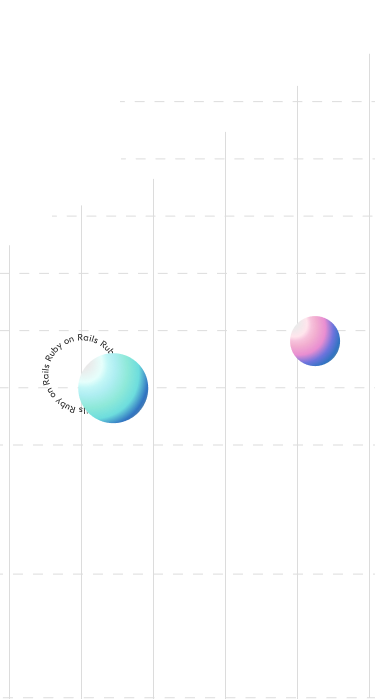
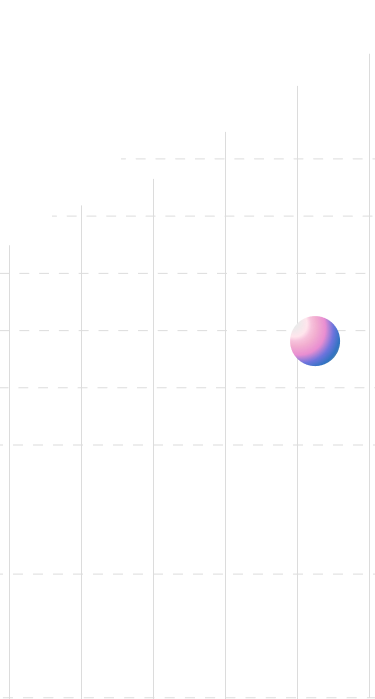
feat: add animations circleRubyOnRails  in the sections cases testimonails lazy_bison for  screen 375px

Changed region(s): [[0.1173, 0.4807, 0.4107, 0.6309]]

diff --git a/styles/scss/sections/_section-testimonials.scss b/styles/scss/sections/_section-testimonials.scss
@@ -348,104 +348,112 @@
 		margin-right: 71px;
 	}
 
-	.consultation__planet-img {
-		position: absolute;
-		width: 107.57px;
-		height: 107.55px;
-		z-index: -1;
-		top: -23px;
-		left: -32px;
-	}
-}
+	@media (max-width: 375px) {
+		.workers-background {
+			background-image: none;
+			background-color: $color-light-green;
+			position: relative;
+			height: 177px;
+		}
 
-@media (max-width: 375px) {
-	.workers-background {
-		background-image: none;
-		background-color: $color-light-green;
-		position: relative;
-		height: 177px;
-	}
+		.workers__list {
+			width: 272px;
+			height: 276px;
+			position: relative;
+			top: -24px;
+			gap: 0;
+		}
 
-	.workers__list {
-		width: 272px;
-		height: 276px;
-		position: relative;
-		top: -24px;
-		gap: 0;
-	}
+		.testimonials__gray-line {
+			display: block;
+			margin-bottom: 18px;
+		}
 
-	.testimonials__gray-line {
-		display: block;
-		margin-bottom: 18px;
-	}
+		.vertical-gray-line-1,
+		.vertical-gray-line-2,
+		.vertical-gray-line-3,
+		.vertical-gray-line-4 {
+			display: none;
+		}
 
-	.vertical-gray-line-1,
-	.vertical-gray-line-2,
-	.vertical-gray-line-3,
-	.vertical-gray-line-4 {
-		display: none;
-	}
+		.testimonials__subtitle {
+			margin-bottom: 40px;
+		}
 
-	.testimonials__subtitle {
-		margin-bottom: 40px;
-	}
+		.avatar {
+			width: 92px;
+			height: 92px;
+		}
 
-	.avatar {
-		width: 92px;
-		height: 92px;
-	}
+		.card__content {
+			padding: 59px 16px 16px 16px;
+		}
 
-	.card__content {
-		padding: 59px 16px 16px 16px;
-	}
+		.card {
+			width: 272px;
+			height: 248px;
+		}
 
-	.card {
-		width: 272px;
-		height: 248px;
-	}
+		.position,
+		.description {
+			font-size: 14px;
+			line-height: 20px;
+			letter-spacing: 0.4px;
+		}
 
-	.position,
-	.description {
-		font-size: 14px;
-		line-height: 20px;
-		letter-spacing: 0.4px;
-	}
+		.workers__item {
+			position: initial;
+		}
 
-	.workers__item {
-		position: initial;
-	}
+		.consultation {
+			padding: 168px 0 60px 0;
+		}
 
-	.consultation {
-		padding: 168px 0 60px 0;
-	}
+		.consultation__inner {
+			background-image: url(/assets/images/consultation-bg-375.png);
+			background-position: center;
+			background-repeat: no-repeat;
+			background-size: contain;
+			background-color: transparent;
+			padding: 30px 0 156px 0;
+			gap: 24px;
+			width: auto;
+			max-height: 335px;
 
-	.consultation__inner {
-		background-image: url(/assets/images/consultation-bg-375.png);
-		background-position: center;
-		background-repeat: no-repeat;
-		background-size: contain;
-		background-color: transparent;
-		padding: 30px 0 156px 0;
-		gap: 24px;
-		width: auto;
-		max-height: 335px;
-	}
+			.planet-blue {
+				width: 68px;
+				height: 68px;
+				top: -21px;
+				left: auto;
+				right: -6px;
+			}
 
-	.consultation__description {
-		max-width: 297px;
-		margin: 0 auto;
-	}
+			.circle-ruby-on-rails {
+				width: 95px;
+				height: 97.08px;
+				top: -37px;
+				left: auto;
+				right: -20px;
+				animation: none;
+			}
+		}
 
-	.consultation__inner .button {
-		padding: 14px 45.5px;
-		margin: 0 auto;
-	}
+		.consultation__description {
+			max-width: 297px;
+			margin: 0 auto;
+		}
 
-	.consultation__planet-img {
-		width: 90px;
-		height: 90px;
-		top: -32px;
-		left: auto;
-		right: -18px;
+		.consultation__inner .button {
+			padding: 14px 45.5px;
+			margin: 0 auto;
+		}
+
+		.consultation__planet-img {
+			width: 90px;
+			height: 90px;
+			top: -32px;
+			left: auto;
+			right: -18px;
+		}
 	}
 }

diff --git a/styles/css/main.css b/styles/css/main.css
@@ -595,7 +595,7 @@ img {
 }
 @media (max-width: 375px) {
   .lazy-bison {
-    background-image: url("/assets/images/lazy-bizon-bg-375.svg");
+    background-image: url("/assets/images/lazy-bizon-bg-375.png");
     background-position: 0 -37px;
     background-repeat: no-repeat;
     background-size: contain;
@@ -610,6 +610,21 @@ img {
   }
   .lazy-bison__inner .gray-line {
     display: none;
+  }
+  .lazy-bison__inner .planet-blue {
+    width: 70px;
+    height: 70px;
+    top: 40px;
+    right: auto;
+    left: 50px;
+  }
+  .lazy-bison__inner .circle-ruby-on-rails {
+    width: 86px;
+    height: 94px;
+    top: 15px;
+    right: auto;
+    left: 9px;
+    animation: none;
   }
   .lazy-bison__title {
     font-size: 42px;
@@ -629,7 +644,7 @@ img {
     display: none;
   }
   .lazy-bison-description__info {
-    flex-basis: 497px;
+    flex-basis: auto;
     display: flex;
     flex-direction: column;
     padding-bottom: 61px;
@@ -649,8 +664,8 @@ img {
     display: flex;
     justify-content: flex-start;
     flex-wrap: wrap;
-    gap: 48px 40px;
-    flex-basis: 45.5rem;
+    gap: 48px 24px;
+    flex-basis: auto;
   }
   .lazy-bison-stats__inner {
     background-image: url("/assets/images/stats-bg-375.png");
@@ -660,7 +675,7 @@ img {
     background-color: transparent;
     max-width: 100%;
     display: flex;
-    padding: 60px 0 78px 0;
+    padding: 26px 0 73px 0;
     justify-content: space-between;
     gap: 69px;
     margin: 0 auto;
@@ -1535,16 +1550,8 @@ img {
     padding: 14px 70.4px;
     margin-right: 71px;
   }
-  .consultation__planet-img {
-    position: absolute;
-    width: 107.57px;
-    height: 107.55px;
-    z-index: -1;
-    top: -23px;
-    left: -32px;
-  }
 }
-@media (max-width: 375px) {
+@media (max-width: 768px) and (max-width: 375px) {
   .workers-background {
     background-image: none;
     background-color: #e5ffaf;
@@ -1604,6 +1611,21 @@ img {
     gap: 24px;
     width: auto;
     max-height: 335px;
+  }
+  .consultation__inner .planet-blue {
+    width: 68px;
+    height: 68px;
+    top: -21px;
+    left: auto;
+    right: -6px;
+  }
+  .consultation__inner .circle-ruby-on-rails {
+    width: 95px;
+    height: 97.08px;
+    top: -37px;
+    left: auto;
+    right: -20px;
+    animation: none;
   }
   .consultation__description {
     max-width: 297px;

diff --git a/styles/scss/sections/_section-lazy-bison.scss b/styles/scss/sections/_section-lazy-bison.scss
@@ -195,7 +195,7 @@
 @media (max-width: 375px) {
 	.lazy-bison {
 		@include background(
-			'/assets/images/lazy-bizon-bg-375.svg',
+			'/assets/images/lazy-bizon-bg-375.png',
 			0 -37px,
 			no-repeat,
 			contain
@@ -210,6 +210,23 @@
 		background: none;
 		.gray-line {
 			display: none;
+		}
+
+		.planet-blue {
+			width: 70px;
+			height: 70px;
+			top: 40px;
+			right: auto;
+			left: 50px;
+		}
+
+		.circle-ruby-on-rails {
+			width: 86px;
+			height: 94px;
+			top: 15px;
+			right: auto;
+			left: 9px;
+			animation: none;
 		}
 	}
 
@@ -236,7 +253,7 @@
 	}
 
 	.lazy-bison-description__info {
-		flex-basis: 497px;
+		flex-basis: auto;
 		display: flex;
 		flex-direction: column;
 		padding-bottom: 61px;
@@ -259,8 +276,8 @@
 		display: flex;
 		justify-content: flex-start;
 		flex-wrap: wrap;
-		gap: 48px 40px;
-		flex-basis: 45.5rem;
+		gap: 48px 24px;
+		flex-basis: auto;
 	}
 
 	.lazy-bison-stats__inner {
@@ -272,7 +289,7 @@
 		);
 		max-width: 100%;
 		display: flex;
-		padding: 60px 0 78px 0;
+		padding: 26px 0 73px 0;
 		justify-content: space-between;
 		gap: 69px;
 		margin: 0 auto;

diff --git a/styles/scss/_global.scss b/styles/scss/_global.scss
@@ -267,6 +267,7 @@ img {
 		height: 50px;
 	}
 }
+
 @mixin heading--smaller {
 	font-weight: 600;
 	font-size: 1.75rem;
